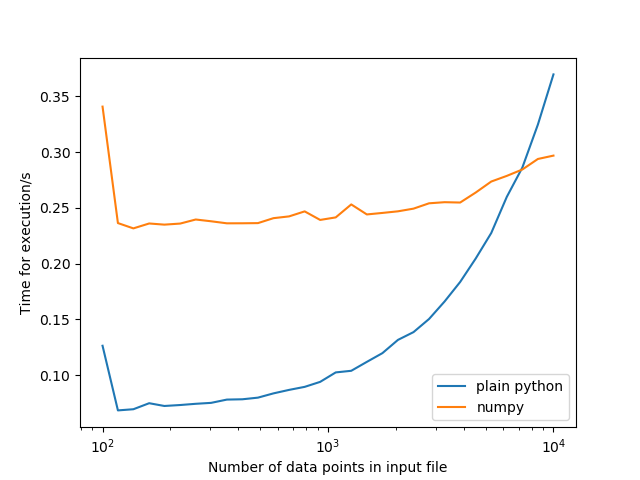
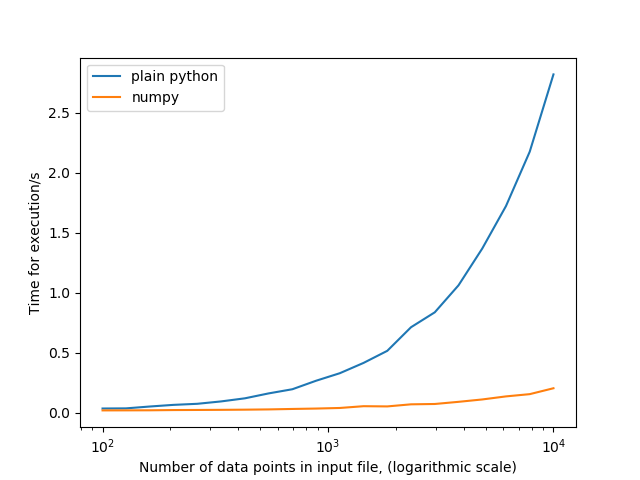
performance changed to timeit

diff --git a/performance.py b/performance.py
@@ -1,12 +1,27 @@
 import numpy as np
-import time 
+import timeit
 import os
 from matplotlib import pyplot as plt
 
-n_samples = 30
+n_samples = 20
 n_data_points = np.logspace(2.0, 4.0, num=n_samples, dtype=int)
+print('n_data_points', n_data_points)
 plain_time = np.zeros(n_samples)
 numpy_time = np.zeros(n_samples)
+
+def plain_load(filename):
+    points = []
+    with open(filename, 'r') as source_file:
+        lines = source_file.readlines()
+        for line in lines: 
+            points.append(tuple(map(float, line.strip().split(','))))
+    return points
+
+def np_load(filename):
+    with open(filename, 'r') as source_file:
+        points = np.genfromtxt(source_file, dtype=float, delimiter=',')
+    return points
+
 
 for i, n_dp in enumerate(n_data_points):
     # Make multiple input files with coordinate points, ranging from 100 to 10,000 points
@@ -15,20 +30,20 @@ for i, n_dp in enumerate(n_data_points):
     np.savetxt(filename, points, delimiter=",")
 
     # Measure time for clustering.py
-    start = time.time()
-    os.system('python clustering.py ' + filename)
-    plain_time[i] = time.time() - start
+    plain_setup = 'from __main__ import filename, plain_load; from clustering import cluster; points = plain_load(filename)'
+    plain_code = 'cluster(points)'
+    plain_time[i] = timeit.timeit(setup=plain_setup, stmt=plain_code, number=10)
 
     # Measure time for clustering_numpy.py
-    start = time.time()
-    os.system('python clustering_numpy.py ' + filename)
-    numpy_time[i] = time.time() - start
+    numpy_setup = 'from __main__ import filename, np_load; from clustering_numpy import cluster_np; points = np_load(filename)'
+    numpy_code = 'cluster_np(points)'
+    numpy_time[i] = timeit.timeit(setup=numpy_setup, stmt=numpy_code, number=10)
 
 # Plot and save results
 plt.plot(n_data_points, plain_time, label='plain python')
 plt.plot(n_data_points, numpy_time, label='numpy')
 plt.legend()
-plt.xlabel('Number of data points in input file')
+plt.xlabel('Number of data points in input file, (logarithmic scale)')
 plt.ylabel('Time for execution/s')
 plt.xscale('log')
 plt.savefig('performance.png')

diff --git a/clustering_numpy.py b/clustering_numpy.py
@@ -5,17 +5,7 @@ import numpy as np
 from time import time
 
 
-def find_distance(a, b):
-    '''
-    Calculates the distance between two input points a and b in 2d using pythagoras,
-    returns the distance.
-    '''
-    diff_x = a[0]-b[0]
-    diff_y = a[1]-b[1]
-    return sqrt((diff_x)**2+(diff_y)**2)
-
-
-def cluster(points,iters=10):
+def cluster_np(points,iters=10):
     '''
     Takes a list of points as tuples and performs the k-means algorithm to cluster
     data points into separate clusters. Optional argument iters is the number of 
@@ -61,7 +51,7 @@ if __name__ == "__main__":
     with open(args.samples_file, 'r') as source_file:
         points = np.genfromtxt(source_file, dtype=float, delimiter=',')
     
-    cluster_centre, cluster_allocation = cluster(points, iters=args.iters)
+    cluster_centre, cluster_allocation = cluster_np(points, iters=args.iters)
 
     for i, cluster in enumerate(cluster_centre):
         cluster_points = [point for ind, point in enumerate(points) if cluster_allocation[ind] == i]

diff --git a/clustering.py b/clustering.py
@@ -41,9 +41,10 @@ def cluster(points,iters=10):
         # Update the centre of each cluster by setting it to the average of all points assigned to the cluster
         for i, cluster in enumerate(cluster_centre):
             cluster_points = [point for ind, point in enumerate(points) if cluster_allocation[ind] == i]
-            av_x = sum([point[0] for point in cluster_points]) / len(cluster_points)
-            av_y = sum([point[1] for point in cluster_points]) / len(cluster_points)
-            cluster_centre[i] = (av_x, av_y)
+            if len(cluster_points) >= 1:
+                av_x = sum([point[0] for point in cluster_points]) / len(cluster_points)
+                av_y = sum([point[1] for point in cluster_points]) / len(cluster_points)
+                cluster_centre[i] = (av_x, av_y)
         iteration = iteration+1
 
     return cluster_centre, cluster_allocation
